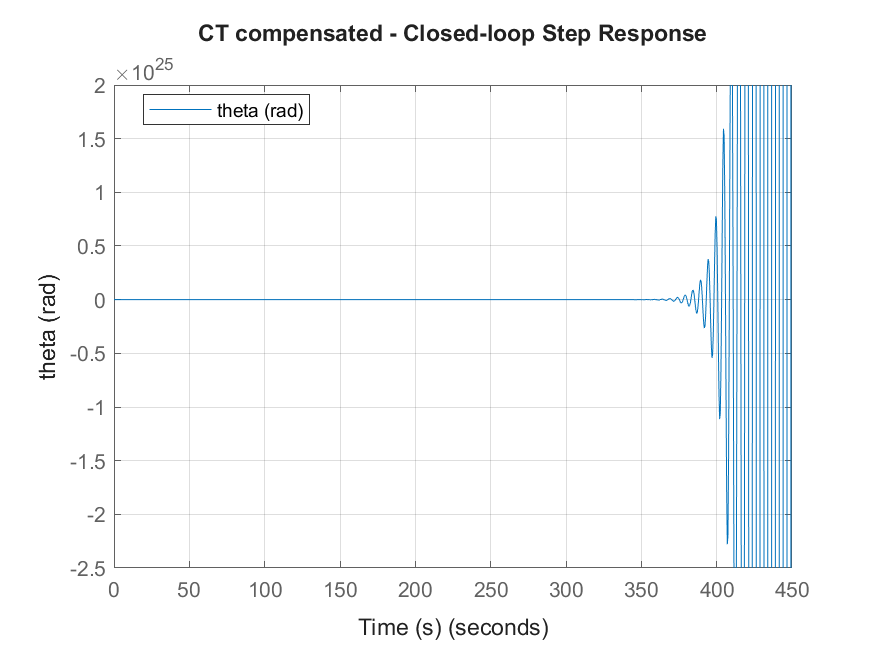
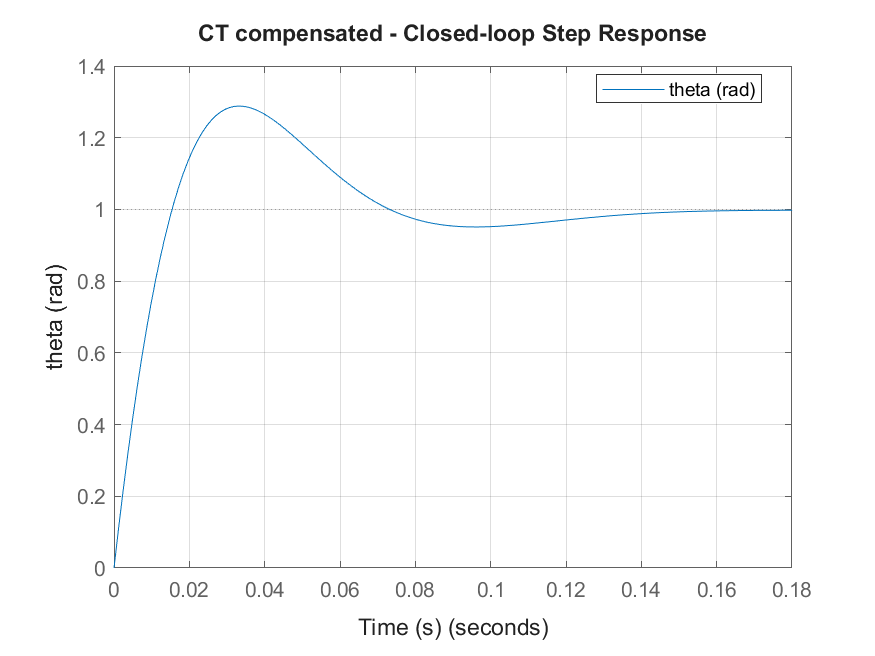
feat: Adjust for theta

diff --git a/matlab/design_pid_controller.m b/matlab/design_pid_controller.m
@@ -1,8 +1,133 @@
 function [C, info] = design_pid_controller(G, target_bw)
 %DESIGN_PID_CONTROLLER PID tuning helper.
 
+opts = [];
+try
+    opts = pidtuneOptions('PhaseMargin', 60, 'DesignFocus', 'disturbance-rejection');
+catch
+    try
+        opts = pidtuneOptions('PhaseMargin', 60);
+    catch
+        % Fallback for older MATLAB versions without pidtuneOptions.
+        opts = [];
+    end
+end
+
 if nargin < 2 || isempty(target_bw)
-    [C, info] = pidtune(G, 'PID');
+    candidates = logspace(-2, 2, 12); % 0.01 to 100 rad/s
 else
-    [C, info] = pidtune(G, 'PID', target_bw);
+    candidates = unique(target_bw * [1 1/2 1/4 1/8 2 4 8 16]);
+    candidates = unique([candidates logspace(-2, 2, 8)]); % add a broad fallback band
+end
+candidates = candidates(candidates > 0 & isfinite(candidates));
+
+signs = [1 -1];
+
+best = struct('found', false, 'has_gm', false, 'gm', -Inf, 'has_pm', false, ...
+    'pm', -Inf, 'settle', Inf, 'C', [], 'info', struct(), 'bw', NaN, 'sign', 1);
+
+for s = signs
+    G_use = s * G;
+    for k = 1:numel(candidates)
+        w = candidates(k);
+        [C_try, info_try] = try_pidtune(G_use, w, opts);
+        if isempty(C_try)
+            continue;
+        end
+
+        L = C_try * G_use;
+        T = feedback(L, 1);
+        Tm = minreal(T, 1e-6);
+        if ~isstable(Tm)
+            continue;
+        end
+
+        warn_state = warning('off', 'all');
+        [Gm, Pm] = margin(L);
+        warning(warn_state);
+        has_gm = isinf(Gm) || (isfinite(Gm) && (Gm > 1));
+        has_pm = isfinite(Pm) && (Pm > 0);
+
+        s_info = stepinfo(Tm);
+        settle = s_info.SettlingTime;
+        if ~isfinite(settle)
+            settle = Inf;
+        end
+
+        C_out = C_try;
+        if s < 0
+            C_out = -C_try;
+        end
+
+        if ~best.found
+            best = pack_best(C_out, info_try, w, s, has_gm, Gm, has_pm, Pm, settle);
+            continue;
+        end
+
+        if has_gm && ~best.has_gm
+            best = pack_best(C_out, info_try, w, s, has_gm, Gm, has_pm, Pm, settle);
+        elseif (has_gm == best.has_gm)
+            if has_pm && ~best.has_pm
+                best = pack_best(C_out, info_try, w, s, has_gm, Gm, has_pm, Pm, settle);
+            elseif (has_pm == best.has_pm)
+                if Pm > best.pm + 1e-3
+                    best = pack_best(C_out, info_try, w, s, has_gm, Gm, has_pm, Pm, settle);
+                elseif abs(Pm - best.pm) <= 1e-3 && settle < best.settle
+                    best = pack_best(C_out, info_try, w, s, has_gm, Gm, has_pm, Pm, settle);
+                end
+            end
+        end
+    end
+end
+
+if best.found
+    C = best.C;
+    info = best.info;
+    info.SelectedBandwidth = best.bw;
+    info.SelectedGainMargin = best.gm;
+    info.SelectedPhaseMargin = best.pm;
+    info.SelectedSign = best.sign;
+    info.ClosedLoopStable = true;
+    return;
+end
+
+% Last resort: return the default pidtune result (may be unstable).
+[C, info] = try_pidtune(G, [], opts);
+if isempty(C)
+    info.ClosedLoopStable = false;
+else
+    info.ClosedLoopStable = isstable(feedback(C * G, 1));
+end
+
+end
+
+function [C, info] = try_pidtune(G, w, opts)
+C = [];
+info = struct();
+
+warn_state = warning('off', 'all');
+try
+    if isempty(w)
+        if isempty(opts)
+            [C, info] = pidtune(G, 'PID');
+        else
+            [C, info] = pidtune(G, 'PID', opts);
+        end
+    else
+        if isempty(opts)
+            [C, info] = pidtune(G, 'PID', w);
+        else
+            [C, info] = pidtune(G, 'PID', w, opts);
+        end
+    end
+catch
+    C = [];
+    info = struct();
+end
+warning(warn_state);
+end
+
+function best = pack_best(C, info, bw, sign, has_gm, gm, has_pm, pm, settle)
+best = struct('found', true, 'has_gm', has_gm, 'gm', gm, 'has_pm', has_pm, ...
+    'pm', pm, 'settle', settle, 'C', C, 'info', info, 'bw', bw, 'sign', sign);
 end

diff --git a/matlab/analysis_siso.m b/matlab/analysis_siso.m
@@ -24,7 +24,9 @@ title([label ' - Root Locus']);
 saveas(fig, fullfile(output_dir, [tag '_root_locus.png']));
 
 fig = figure('Name', [label ' - Bode']);
+warn_state = warning('off', 'all');
 margin(L);
+warning(warn_state);
 grid on;
 title([label ' - Bode Plot']);
 saveas(fig, fullfile(output_dir, [tag '_bode.png']));
@@ -36,9 +38,11 @@ title([label ' - Nyquist Plot']);
 saveas(fig, fullfile(output_dir, [tag '_nyquist.png']));
 
 T = feedback(L, 1);
+T_plot = minreal(T, 1e-6);
+is_stable = isstable(T_plot);
 
 fig = figure('Name', [label ' - Step']);
-step(T);
+step(T_plot);
 grid on;
 title([label ' - Closed-loop Step Response']);
 xlabel('Time (s)');
@@ -47,7 +51,7 @@ legend(y_label, 'Location', 'best');
 saveas(fig, fullfile(output_dir, [tag '_step.png']));
 
 fig = figure('Name', [label ' - Impulse']);
-impulse(T);
+impulse(T_plot);
 grid on;
 title([label ' - Closed-loop Impulse Response']);
 xlabel('Time (s)');
@@ -55,14 +59,23 @@ ylabel(y_label);
 legend(y_label, 'Location', 'best');
 saveas(fig, fullfile(output_dir, [tag '_impulse.png']));
 
-info = stepinfo(T);
-ess = abs(1 - dcgain(T));
+if is_stable
+    info = stepinfo(T_plot);
+    ess = abs(1 - dcgain(T_plot));
+else
+    info = struct('RiseTime', NaN, 'SettlingTime', NaN, 'Overshoot', NaN, ...
+        'Peak', NaN, 'PeakTime', NaN);
+    ess = NaN;
+end
+warn_state = warning('off', 'all');
 [Gm, Pm, Wcg, Wcp] = margin(L);
+warning(warn_state);
 
 metrics = struct( ...
     'label', label, ...
     'step_info', info, ...
     'steady_state_error', ess, ...
+    'closed_loop_stable', is_stable, ...
     'gain_margin', Gm, ...
     'phase_margin', Pm, ...
     'gain_cross_freq', Wcg, ...

diff --git a/matlab/main.m b/matlab/main.m
@@ -49,10 +49,23 @@ info_c
 metrics_comp = analysis_siso(Gtheta, C, 'CT compensated', 'theta (rad)', output_dir);
 print_metrics('CT compensated', metrics_comp);
 
+% Cart position response with theta-based controller (disturbance at cart input)
+Tx_ct = minreal(Gx / (1 + C * Gtheta));
+tag = make_tag('CT cart position');
+fig = figure('Name', 'CT Cart Position - Impulse');
+impulse(Tx_ct);
+grid on;
+title('CT Cart Position - Impulse Response (disturbance)');
+xlabel('Time (s)');
+ylabel('x (m)');
+legend('x (m)', 'Location', 'best');
+saveas(fig, fullfile(output_dir, [tag '_impulse.png']));
+
 % Discretization
 Ts = 0.02;
 sysd = c2d(sys, Ts, 'zoh');
 Gd = c2d(Gtheta, Ts, 'zoh');
+Gxd = minreal(tf(sysd(1)));
 
 disp('Discrete-time state-space (ZOH):');
 sysd
@@ -76,7 +89,25 @@ print_metrics('DT uncompensated', metrics_uncomp_d);
 metrics_comp_d = analysis_siso(Gd, Cd, 'DT compensated', 'theta (rad)', output_dir);
 print_metrics('DT compensated', metrics_comp_d);
 
+% Cart position response with theta-based controller (disturbance at cart input)
+Tx_dt = minreal(Gxd / (1 + Cd * Gd));
+tag = make_tag('DT cart position');
+fig = figure('Name', 'DT Cart Position - Impulse');
+impulse(Tx_dt);
+grid on;
+title(sprintf('DT Cart Position - Impulse Response (Ts = %.3f s)', Ts));
+xlabel('Time (s)');
+ylabel('x (m)');
+legend('x (m)', 'Location', 'best');
+saveas(fig, fullfile(output_dir, [tag '_impulse.png']));
+
 % Comparison between continuous and discrete
 Tc = feedback(C * Gtheta, 1);
 Td = feedback(Cd * Gd, 1);
 compare_continuous_discrete(Tc, Td, output_dir, Ts);
+
+
+T = feedback(C * Gtheta, 1);
+T = minreal(T, 1e-6);
+isstable(T)
+pole(T)

diff --git a/matlab/print_metrics.m b/matlab/print_metrics.m
@@ -4,11 +4,21 @@ function print_metrics(label, metrics)
 info = metrics.step_info;
 
 fprintf('\n%s\n', label);
-fprintf('Steady-state error: %.6f\n', metrics.steady_state_error);
-fprintf('Rise time: %.4f s\n', info.RiseTime);
-fprintf('Settling time: %.4f s\n', info.SettlingTime);
-fprintf('Overshoot: %.2f %%\n', info.Overshoot);
-fprintf('Peak: %.4f at %.4f s\n', info.Peak, info.PeakTime);
+fprintf('Closed-loop stable: %s\n', logical_to_text(metrics.closed_loop_stable));
+
+if metrics.closed_loop_stable
+    fprintf('Steady-state error: %.6f\n', metrics.steady_state_error);
+    fprintf('Rise time: %.4f s\n', info.RiseTime);
+    fprintf('Settling time: %.4f s\n', info.SettlingTime);
+    fprintf('Overshoot: %.2f %%\n', info.Overshoot);
+    fprintf('Peak: %.4f at %.4f s\n', info.Peak, info.PeakTime);
+else
+    fprintf('Steady-state error: N/A\n');
+    fprintf('Rise time: N/A\n');
+    fprintf('Settling time: N/A\n');
+    fprintf('Overshoot: N/A\n');
+    fprintf('Peak: N/A\n');
+end
 
 fprintf('Gain margin: %s\n', format_gain_margin(metrics.gain_margin));
 fprintf('Phase margin: %s\n', format_phase_margin(metrics.phase_margin));
@@ -34,5 +44,14 @@ elseif isinf(Pm)
     s = 'Inf';
 else
     s = sprintf('%.2f deg', Pm);
+end
+
+end
+
+function s = logical_to_text(v)
+if v
+    s = 'yes';
+else
+    s = 'no';
 end
 end
